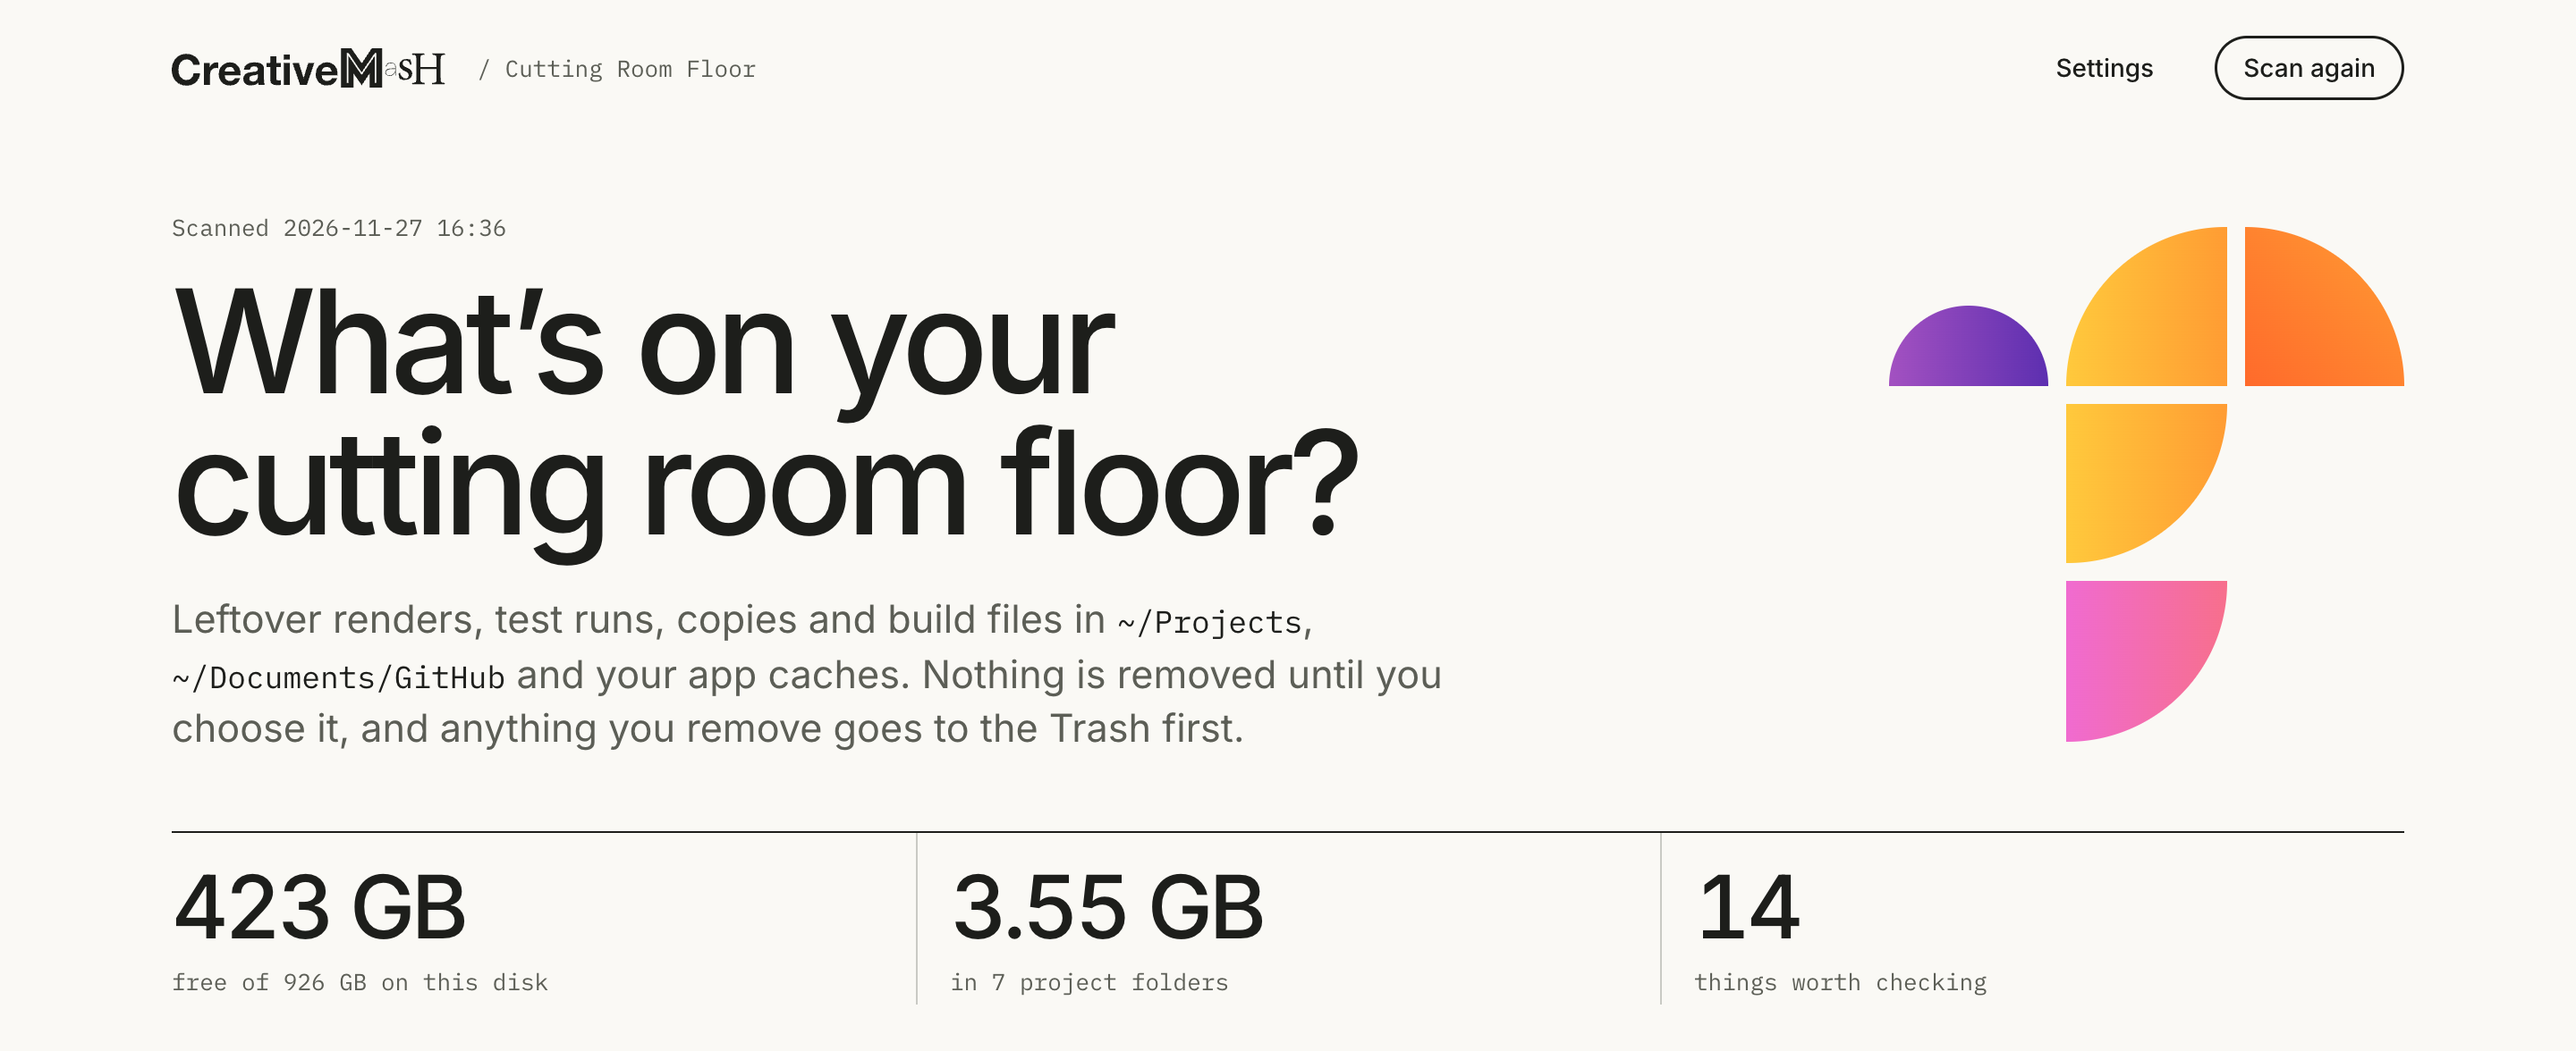
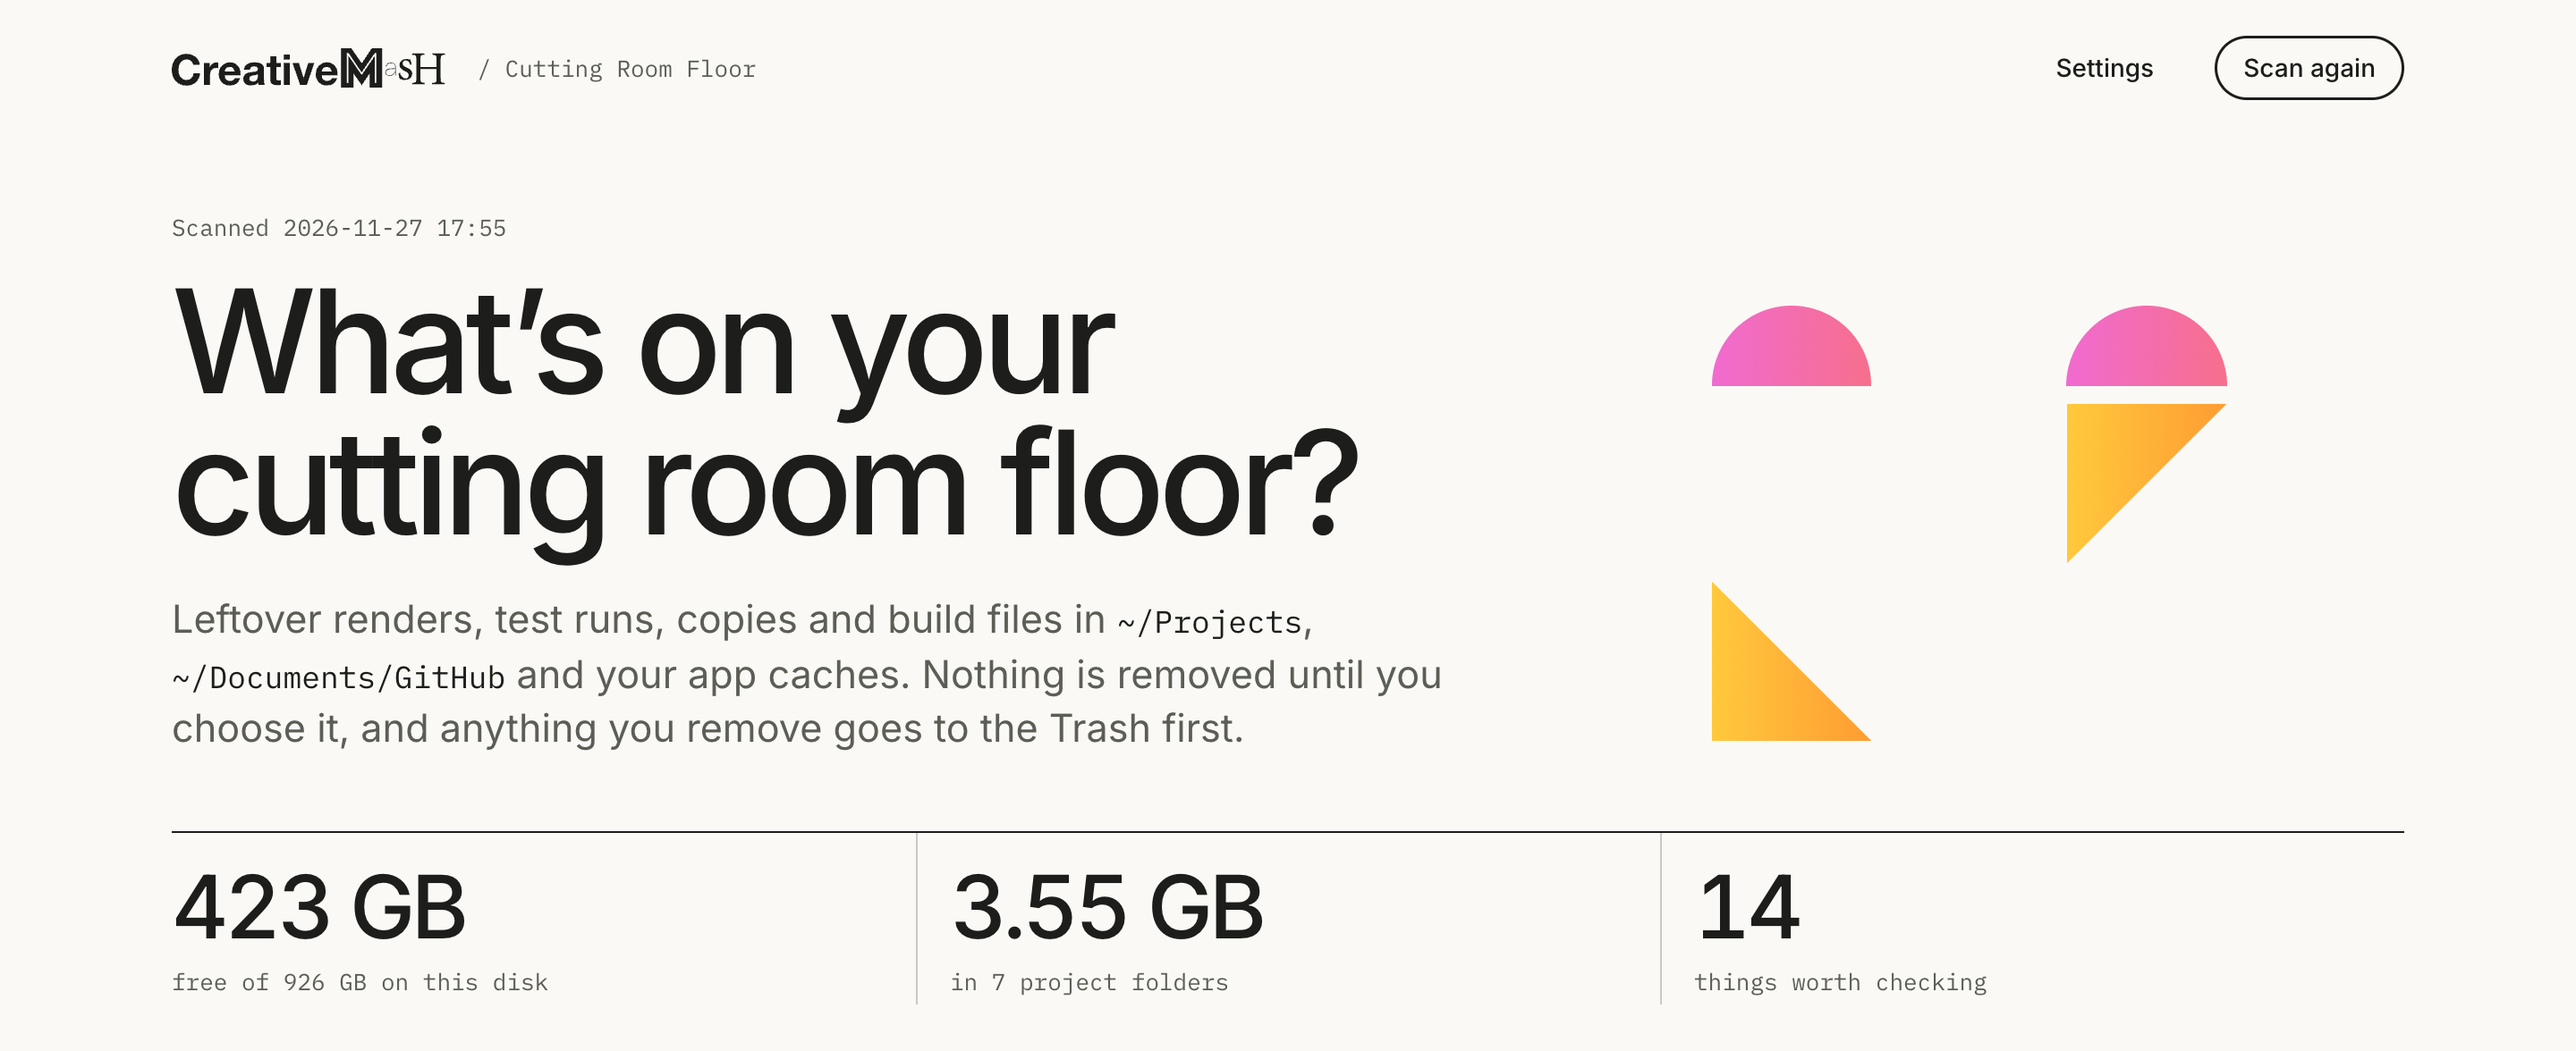
1.3.1: README pictures show thumbnails and the video preview

Changed region(s): [[0.6562, 0.2143, 0.9375, 0.3673], [0.7812, 0.398, 0.875, 0.7041], [0.6562, 0.551, 0.7188, 0.7041]]

diff --git a/README.md b/README.md
@@ -92,6 +92,8 @@ Claude Code session copies (`.claude/worktrees`) are shown separately and can't 
 
 **See before you choose.** Images and videos have a thumbnail in the list. Click it for a bigger view, or press play to watch a video in the page. A folder of frames shows its first frame. On a Mac, most image types (including PSD, TIFF, HEIC and EXR) and MP4 and MOV videos get thumbnails; on Windows and Linux, PNG, JPG and WebP do. Videos your browser can't play, such as ProRes in Chrome, open in your usual video player instead.
 
+![Previewing a video before choosing](screenshots/05-preview.png)
+
 ![Choosing what to keep](screenshots/04-choose-what-to-keep.png)
 
 ## Options

diff --git a/CHANGELOG.md b/CHANGELOG.md
@@ -2,6 +2,10 @@
 
 Each release is listed here, newest first. The Settings page shows the notes for a new version when you check for updates, so keep each entry short and in plain words.
 
+## 1.3.1
+
+- New pictures on the GitHub page showing the thumbnails and the video preview.
+
 ## 1.3.0
 
 - Images and videos have a thumbnail in the list. Click it for a bigger view, so you can see what a file is without opening its folder.
